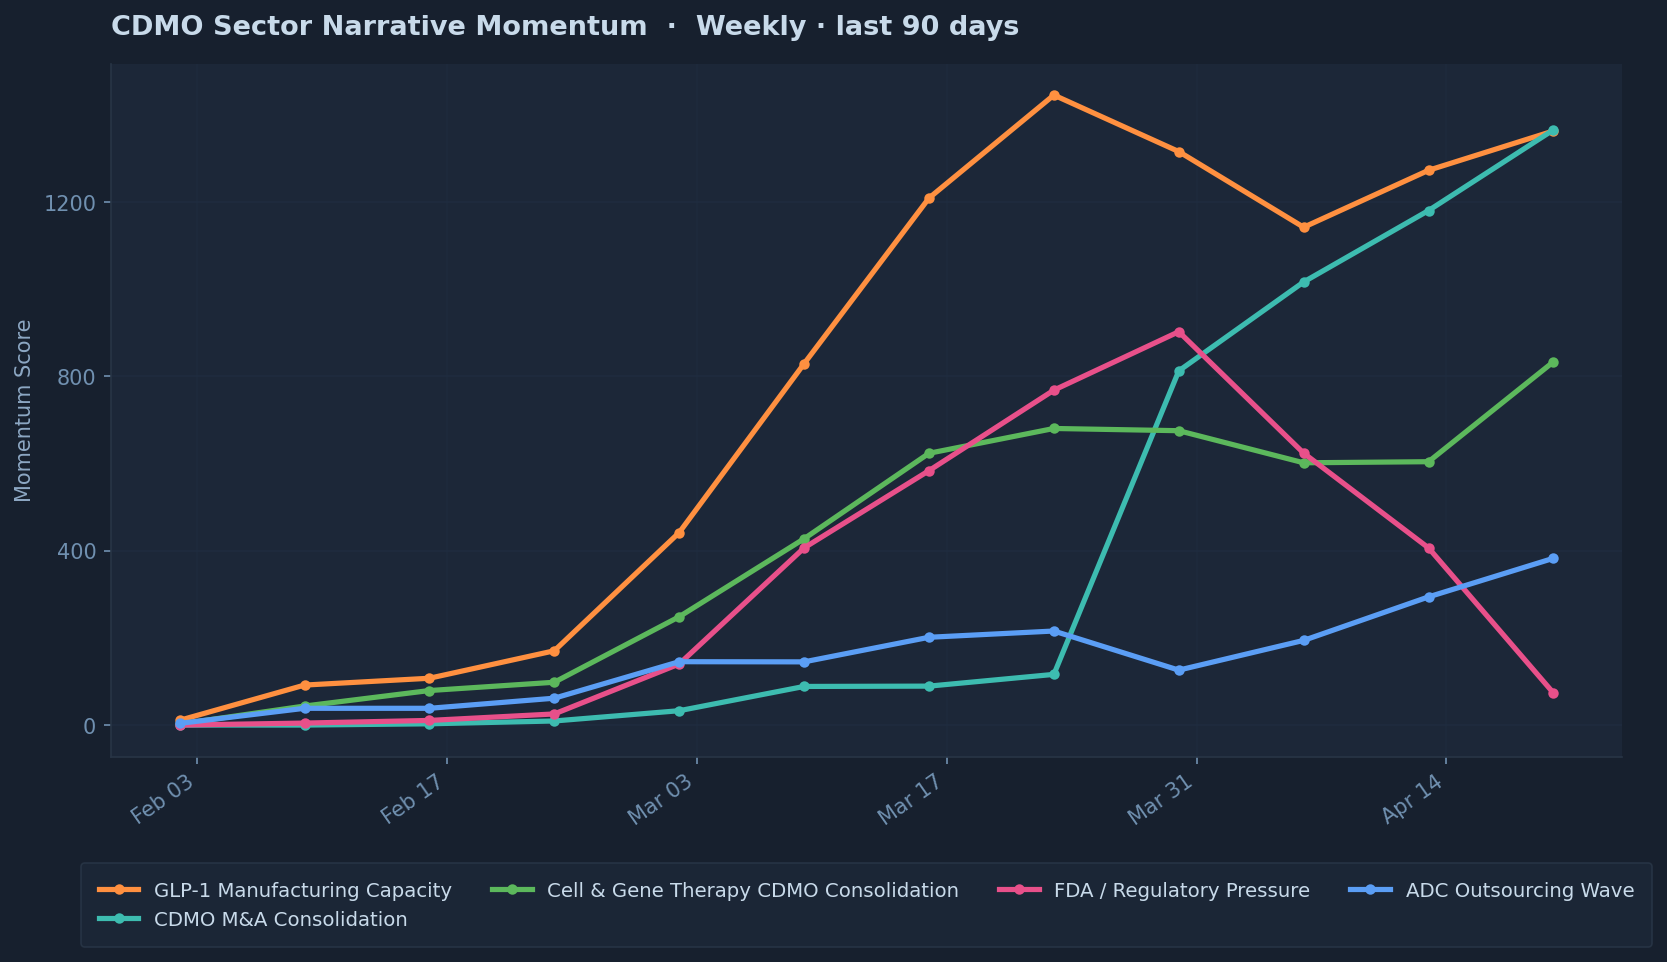
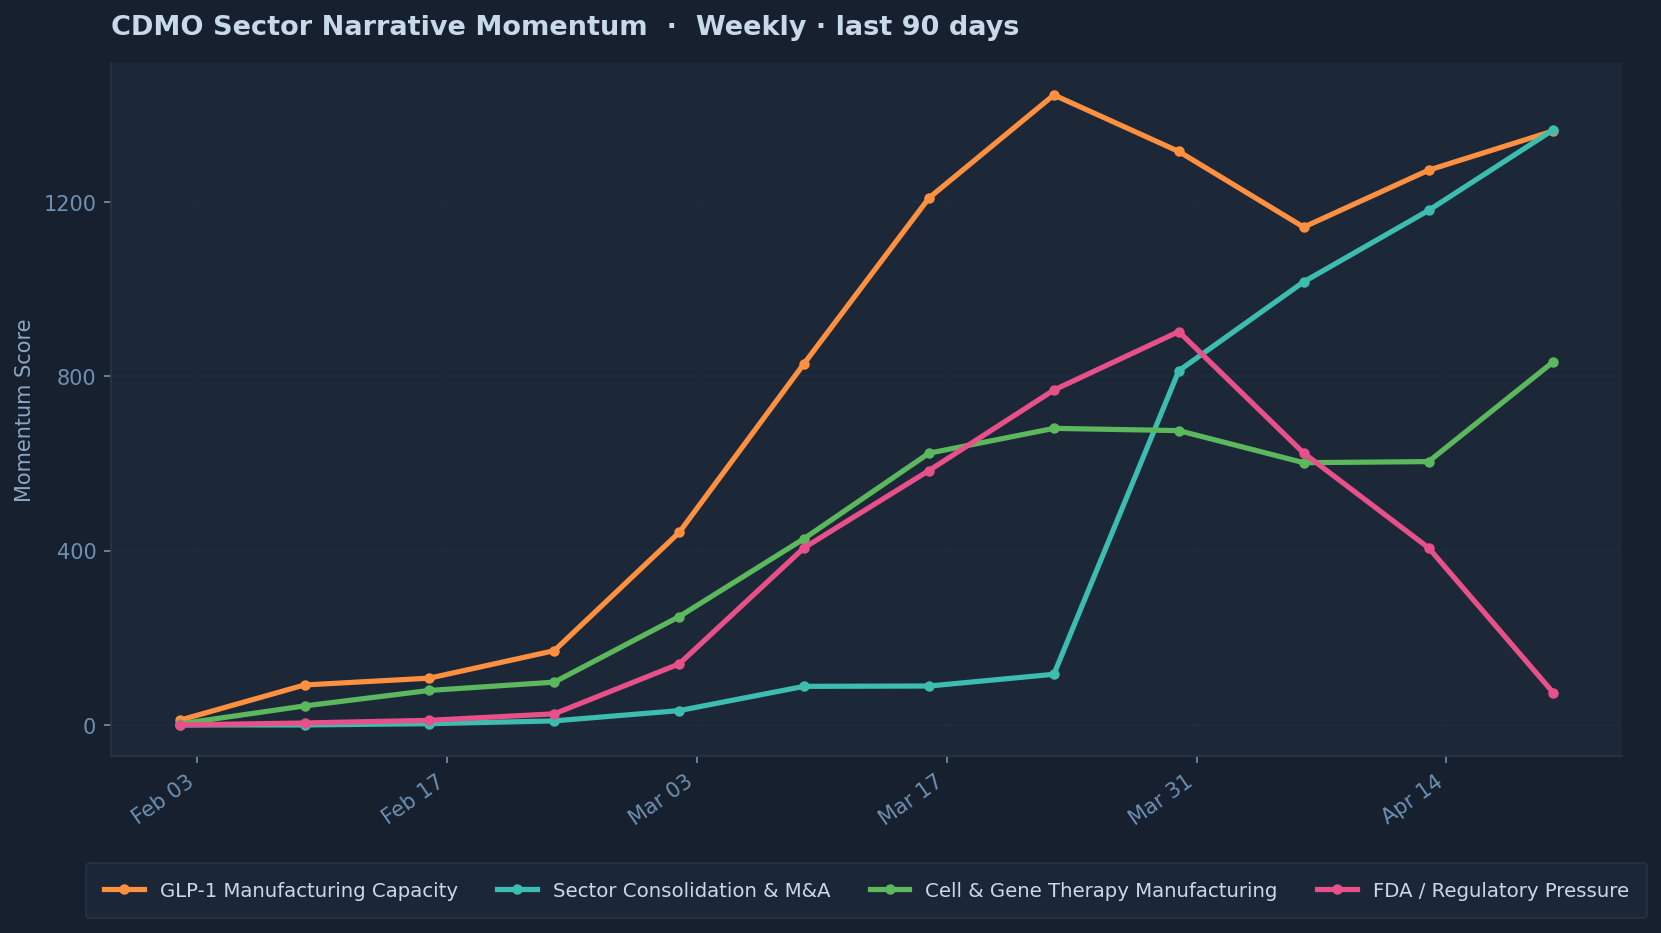
chore: auto-update 2026-05-02

diff --git a/index.html b/index.html
@@ -828,7 +828,7 @@
   <div class="data-block">
     <div class="stats">
       <div class="stat">
-        <div class="num">1,189</div>
+        <div class="num">5,223</div>
         <div class="lbl">Signals<br>30 days</div>
       </div>
       <div class="stat">
@@ -846,7 +846,7 @@
     </div>
     <div class="narrative-band">
       <span class="narrative-kicker">Leading narrative</span>
-      <span class="narrative-tag">CDMO M&amp;A Consolidation</span>
+      <span class="narrative-tag">Sector Consolidation &amp; M&amp;A</span>
       <span class="narrative-since">Rolling 7 days</span>
     </div>
     <div class="tech-theme-band"><span class="tech-theme-kicker">Leading tech theme</span><span class="tech-theme-mod">Small Molecule</span><span class="tech-theme-note" style="margin-left:auto;font-size:10.5px;color:var(--text3)">Patent &amp; publication signals · 30 days</span></div>
@@ -861,12 +861,12 @@
     <div class="story-card">
       <div class="story-top">
         <span class="story-trend down">&#8600; Fading</span>
-        <span class="story-name">CDMO M&amp;A Consolidation</span>
+        <span class="story-name">Sector Consolidation &amp; M&amp;A</span>
       </div>
       <div class="story-counts">
-        <span class="story-count-num">331</span><span class="story-count-lbl">signals this week</span>
+        <span class="story-count-num">261</span><span class="story-count-lbl">signals this week</span>
         <span class="story-sep">·</span>
-        <span class="story-count-num">40</span><span class="story-count-lbl">companies active</span>
+        <span class="story-count-num">35</span><span class="story-count-lbl">companies active</span>
       </div>
     </div>
   </div>
@@ -877,16 +877,16 @@
       <span class="section-rule"></span>
     </div>
     <div class="narr-board">
-      <div class="narr-row"><span class="narr-rank">01</span><span class="narr-name" style="color:#ffffff">CDMO M&amp;A Consolidation</span><span class="narr-bar-wrap"><span class="narr-bar" style="width:100%;background:#3DBCB0"></span></span><span class="narr-score">331</span></div>
-      <div class="narr-row"><span class="narr-rank">02</span><span class="narr-name" style="color:#dcd7cf">GLP-1 Manufacturing Capacity</span><span class="narr-bar-wrap"><span class="narr-bar" style="width:74%;background:#FF9040"></span></span><span class="narr-score">248</span></div>
-      <div class="narr-row"><span class="narr-rank">03</span><span class="narr-name" style="color:#dcd7cf">Cell &amp; Gene Therapy CDMO Consolidation</span><span class="narr-bar-wrap"><span class="narr-bar" style="width:65%;background:#5CB85C"></span></span><span class="narr-score">217</span></div>
-      <div class="narr-row"><span class="narr-rank">04</span><span class="narr-name" style="color:#a09590">CDMO Capacity Buildout</span><span class="narr-bar-wrap"><span class="narr-bar" style="width:33%;background:#B06ED8"></span></span><span class="narr-score">112</span></div>
-      <div class="narr-row"><span class="narr-rank">05</span><span class="narr-name" style="color:#a09590">ADC Outsourcing Wave</span><span class="narr-bar-wrap"><span class="narr-bar" style="width:27%;background:#5B9EF5"></span></span><span class="narr-score">91</span></div>
-      <div class="narr-row"><span class="narr-rank">06</span><span class="narr-name" style="color:#a09590">Biosimilar Market Expansion</span><span class="narr-bar-wrap"><span class="narr-bar" style="width:17%;background:#E05252"></span></span><span class="narr-score">59</span></div>
-      <div class="narr-row"><span class="narr-rank">07</span><span class="narr-name" style="color:#a09590">Next-Gen Manufacturing Technology</span><span class="narr-bar-wrap"><span class="narr-bar" style="width:14%;background:#F2C94C"></span></span><span class="narr-score">47</span></div>
-      <div class="narr-row"><span class="narr-rank">08</span><span class="narr-name" style="color:#a09590">Nucleic Acid Manufacturing</span><span class="narr-bar-wrap"><span class="narr-bar" style="width:9%;background:#5b9ef5"></span></span><span class="narr-score">31</span></div>
-      <div class="narr-row"><span class="narr-rank">09</span><span class="narr-name" style="color:#a09590">FDA / Regulatory Pressure</span><span class="narr-bar-wrap"><span class="narr-bar" style="width:8%;background:#E8508A"></span></span><span class="narr-score">29</span></div>
-      <div class="narr-row"><span class="narr-rank">10</span><span class="narr-name" style="color:#a09590">BIOSECURE Act / China De-risking</span><span class="narr-bar-wrap"><span class="narr-bar" style="width:6%;background:#E8A23C"></span></span><span class="narr-score">20</span></div>
+      <div class="narr-row"><span class="narr-rank">01</span><span class="narr-name" style="color:#ffffff">Sector Consolidation &amp; M&amp;A</span><span class="narr-bar-wrap"><span class="narr-bar" style="width:100%;background:#3DBCB0"></span></span><span class="narr-score">261</span></div>
+      <div class="narr-row"><span class="narr-rank">02</span><span class="narr-name" style="color:#dcd7cf">GLP-1 Manufacturing Capacity</span><span class="narr-bar-wrap"><span class="narr-bar" style="width:68%;background:#FF9040"></span></span><span class="narr-score">178</span></div>
+      <div class="narr-row"><span class="narr-rank">03</span><span class="narr-name" style="color:#dcd7cf">Cell &amp; Gene Therapy Manufacturing</span><span class="narr-bar-wrap"><span class="narr-bar" style="width:62%;background:#5CB85C"></span></span><span class="narr-score">162</span></div>
+      <div class="narr-row"><span class="narr-rank">04</span><span class="narr-name" style="color:#a09590">Manufacturing Capacity Expansion</span><span class="narr-bar-wrap"><span class="narr-bar" style="width:33%;background:#B06ED8"></span></span><span class="narr-score">88</span></div>
+      <div class="narr-row"><span class="narr-rank">05</span><span class="narr-name" style="color:#a09590">ADC Outsourcing Wave</span><span class="narr-bar-wrap"><span class="narr-bar" style="width:27%;background:#5B9EF5"></span></span><span class="narr-score">73</span></div>
+      <div class="narr-row"><span class="narr-rank">06</span><span class="narr-name" style="color:#a09590">Biosimilar Market Expansion</span><span class="narr-bar-wrap"><span class="narr-bar" style="width:17%;background:#E05252"></span></span><span class="narr-score">46</span></div>
+      <div class="narr-row"><span class="narr-rank">07</span><span class="narr-name" style="color:#a09590">Next-Gen Manufacturing Technology</span><span class="narr-bar-wrap"><span class="narr-bar" style="width:13%;background:#F2C94C"></span></span><span class="narr-score">36</span></div>
+      <div class="narr-row"><span class="narr-rank">08</span><span class="narr-name" style="color:#a09590">India Generics &amp; API Expansion</span><span class="narr-bar-wrap"><span class="narr-bar" style="width:10%;background:#A8D96C"></span></span><span class="narr-score">27</span></div>
+      <div class="narr-row"><span class="narr-rank">09</span><span class="narr-name" style="color:#a09590">Nucleic Acid Manufacturing</span><span class="narr-bar-wrap"><span class="narr-bar" style="width:9%;background:#5b9ef5"></span></span><span class="narr-score">26</span></div>
+      <div class="narr-row"><span class="narr-rank">10</span><span class="narr-name" style="color:#a09590">FDA / Regulatory Pressure</span><span class="narr-bar-wrap"><span class="narr-bar" style="width:8%;background:#E8508A"></span></span><span class="narr-score">23</span></div>
     </div>
   </div>
 
@@ -903,7 +903,7 @@
 
   <div class="news-section">
     <div class="section-header">
-      <span class="section-label">This week in CDMO &amp; bioprocess</span>
+      <span class="section-label">This week in pharma manufacturing</span>
       <span class="section-rule"></span>
     </div>
     <div class="news-list">
@@ -932,7 +932,7 @@
     <div class="section-header">
       <span class="section-label">Demand drivers — pharma pipeline signals</span>
       <span class="section-rule"></span>
-      <span style="font-size:10px;color:var(--text3);margin-left:auto">Leading indicators for CDMO capacity demand</span>
+      <span style="font-size:10px;color:var(--text3);margin-left:auto">Leading indicators for pharma manufacturing demand</span>
     </div>
     <div class="news-list">
       <a class="news-item" href="https://www.drugdiscoverytrends.com/lillys-plans-to-buy-car-t-firm-kelonia-in-deal-worth-up-to-7-billion-can-its-deal-spree-avoid-pfizers-fate/" target="_blank" rel="noopener"><span class="news-left"><span class="news-icon">📈</span><span class="news-body"><span class="news-title">Lilly’s plans to buy CAR-T firm Kelonia in deal worth up to $7 billion. Can its deal spree avoid Pfizer’s fate?</span><span class="news-meta"><span class="news-co" style="background:rgba(91,158,245,0.1);color:var(--blue2);border-color:rgba(91,158,245,0.2)">Pfizer</span></span></span></span><span class="news-score">5</span></a>
@@ -941,6 +941,24 @@
 <a class="news-item" href="https://www.fiercebiotech.com/biotech/lilly-picks-another-vivo-car-t-company-7b-deal-kelonia" target="_blank" rel="noopener"><span class="news-left"><span class="news-icon">📈</span><span class="news-body"><span class="news-title">Lilly picks up another in vivo CAR-T company with Kelonia buyout worth up to $7B</span><span class="news-meta"><span class="news-co" style="background:rgba(91,158,245,0.1);color:var(--blue2);border-color:rgba(91,158,245,0.2)">Eli Lilly</span></span></span></span><span class="news-score">5</span></a>
 <a class="news-item" href="https://www.fiercebiotech.com/biotech/novo-readies-scd-drug-11b-forma-buy-approval-push-after-phase-3-win" target="_blank" rel="noopener"><span class="news-left"><span class="news-icon">📈</span><span class="news-body"><span class="news-title">Novo readies SCD drug from $1.1B Forma buyout for approval push after phase 3 win</span><span class="news-meta"><span class="news-co" style="background:rgba(91,158,245,0.1);color:var(--blue2);border-color:rgba(91,158,245,0.2)">Novo Nordisk</span></span></span></span><span class="news-score">5</span></a>
 <a class="news-item" href="https://www.fiercepharma.com/pharma/amid-obesity-pill-duel-novo-tees-potential-oral-semaglutide-nod-adolescent-diabetes" target="_blank" rel="noopener"><span class="news-left"><span class="news-icon">📈</span><span class="news-body"><span class="news-title">With trial win, Novo Nordisk eyes adolescent diabetes approval for oral semaglutide</span><span class="news-meta"><span class="news-co" style="background:rgba(91,158,245,0.1);color:var(--blue2);border-color:rgba(91,158,245,0.2)">Novo Nordisk</span></span></span></span><span class="news-score">5</span></a>
+    </div>
+  </div>
+
+  <div class="news-section">
+    <div class="section-header">
+      <span class="section-label">Patent &amp; exclusivity horizon</span>
+      <span class="section-rule"></span>
+      <span style="font-size:10px;color:var(--text3);margin-left:auto">Upcoming loss-of-exclusivity events · 36-month window</span>
+    </div>
+    <div class="news-list">
+      <a class="news-item" href="https://www.accessdata.fda.gov/scripts/cder/ob/" target="_blank" rel="noopener"><span class="news-left"><span class="news-icon">⚠</span><span class="news-body"><span class="news-title">Patent cliff: AXIRON expires Jun 2026 (1mo)</span><span class="news-meta"><span class="news-co" style="background:rgba(239,68,68,0.12)">Eli Lilly</span><span style="font-size:10px;color:var(--text3);margin-left:4px">2026-06-02</span></span></span></span><span class="news-score">-2</span></a>
+<a class="news-item" href="https://www.accessdata.fda.gov/scripts/cder/ob/" target="_blank" rel="noopener"><span class="news-left"><span class="news-icon">✅</span><span class="news-body"><span class="news-title">Generic opportunity: OMONTYS PRESERVATIVE FREE patent expires Jun 2026 (1mo)</span><span class="news-meta"><span class="news-co" style="background:rgba(34,197,94,0.12)">Aurobindo Pharma</span><span style="font-size:10px;color:var(--text3);margin-left:4px">2026-06-02</span></span></span></span><span class="news-score">+2</span></a>
+<a class="news-item" href="https://www.accessdata.fda.gov/scripts/cder/ob/" target="_blank" rel="noopener"><span class="news-left"><span class="news-icon">✅</span><span class="news-body"><span class="news-title">Generic opportunity: OMONTYS PRESERVATIVE FREE patent expires Jun 2026 (1mo)</span><span class="news-meta"><span class="news-co" style="background:rgba(34,197,94,0.12)">Biocon Biologics</span><span style="font-size:10px;color:var(--text3);margin-left:4px">2026-06-02</span></span></span></span><span class="news-score">+2</span></a>
+<a class="news-item" href="https://www.accessdata.fda.gov/scripts/cder/ob/" target="_blank" rel="noopener"><span class="news-left"><span class="news-icon">✅</span><span class="news-body"><span class="news-title">Generic opportunity: OMONTYS PRESERVATIVE FREE patent expires Jun 2026 (1mo)</span><span class="news-meta"><span class="news-co" style="background:rgba(34,197,94,0.12)">Celltrion</span><span style="font-size:10px;color:var(--text3);margin-left:4px">2026-06-02</span></span></span></span><span class="news-score">+2</span></a>
+<a class="news-item" href="https://www.accessdata.fda.gov/scripts/cder/ob/" target="_blank" rel="noopener"><span class="news-left"><span class="news-icon">✅</span><span class="news-body"><span class="news-title">Generic opportunity: OMONTYS PRESERVATIVE FREE patent expires Jun 2026 (1mo)</span><span class="news-meta"><span class="news-co" style="background:rgba(34,197,94,0.12)">Cipla</span><span style="font-size:10px;color:var(--text3);margin-left:4px">2026-06-02</span></span></span></span><span class="news-score">+2</span></a>
+<a class="news-item" href="https://www.accessdata.fda.gov/scripts/cder/ob/" target="_blank" rel="noopener"><span class="news-left"><span class="news-icon">✅</span><span class="news-body"><span class="news-title">Generic opportunity: OPSYNVI patent expires Jun 2026 (1mo)</span><span class="news-meta"><span class="news-co" style="background:rgba(34,197,94,0.12)">Cipla</span><span style="font-size:10px;color:var(--text3);margin-left:4px">2026-06-05</span></span></span></span><span class="news-score">+2</span></a>
+<a class="news-item" href="https://www.accessdata.fda.gov/scripts/cder/ob/" target="_blank" rel="noopener"><span class="news-left"><span class="news-icon">✅</span><span class="news-body"><span class="news-title">Generic opportunity: OPSYNVI patent expires Jun 2026 (1mo)</span><span class="news-meta"><span class="news-co" style="background:rgba(34,197,94,0.12)">Celltrion</span><span style="font-size:10px;color:var(--text3);margin-left:4px">2026-06-05</span></span></span></span><span class="news-score">+2</span></a>
+<a class="news-item" href="https://www.accessdata.fda.gov/scripts/cder/ob/" target="_blank" rel="noopener"><span class="news-left"><span class="news-icon">✅</span><span class="news-body"><span class="news-title">Generic opportunity: OPSYNVI patent expires Jun 2026 (1mo)</span><span class="news-meta"><span class="news-co" style="background:rgba(34,197,94,0.12)">Biocon Biologics</span><span style="font-size:10px;color:var(--text3);margin-left:4px">2026-06-05</span></span></span></span><span class="news-score">+2</span></a>
     </div>
   </div>
 
@@ -989,10 +1007,11 @@
       <span class="section-rule"></span>
     </div>
     <div class="src-rows">
-      <div class="src-row"><span class="src-name">News</span><span class="src-bar-wrap"><span class="src-bar" style="width:100%"></span></span><span class="src-count">772</span></div>
-<div class="src-row"><span class="src-name">Clinical Trials</span><span class="src-bar-wrap"><span class="src-bar" style="width:27%"></span></span><span class="src-count">212</span></div>
-<div class="src-row"><span class="src-name">FDA</span><span class="src-bar-wrap"><span class="src-bar" style="width:11%"></span></span><span class="src-count">91</span></div>
-<div class="src-row"><span class="src-name">Science</span><span class="src-bar-wrap"><span class="src-bar" style="width:10%"></span></span><span class="src-count">82</span></div>
+      <div class="src-row"><span class="src-name">Patent_Cliff</span><span class="src-bar-wrap"><span class="src-bar" style="width:100%"></span></span><span class="src-count">4,034</span></div>
+<div class="src-row"><span class="src-name">News</span><span class="src-bar-wrap"><span class="src-bar" style="width:19%"></span></span><span class="src-count">772</span></div>
+<div class="src-row"><span class="src-name">Clinical Trials</span><span class="src-bar-wrap"><span class="src-bar" style="width:5%"></span></span><span class="src-count">212</span></div>
+<div class="src-row"><span class="src-name">FDA</span><span class="src-bar-wrap"><span class="src-bar" style="width:2%"></span></span><span class="src-count">91</span></div>
+<div class="src-row"><span class="src-name">Science</span><span class="src-bar-wrap"><span class="src-bar" style="width:2%"></span></span><span class="src-count">82</span></div>
 <div class="src-row"><span class="src-name">Hiring</span><span class="src-bar-wrap"><span class="src-bar" style="width:2%"></span></span><span class="src-count">20</span></div>
 <div class="src-row"><span class="src-name">SEC Filings</span><span class="src-bar-wrap"><span class="src-bar" style="width:2%"></span></span><span class="src-count">12</span></div>
     </div>
